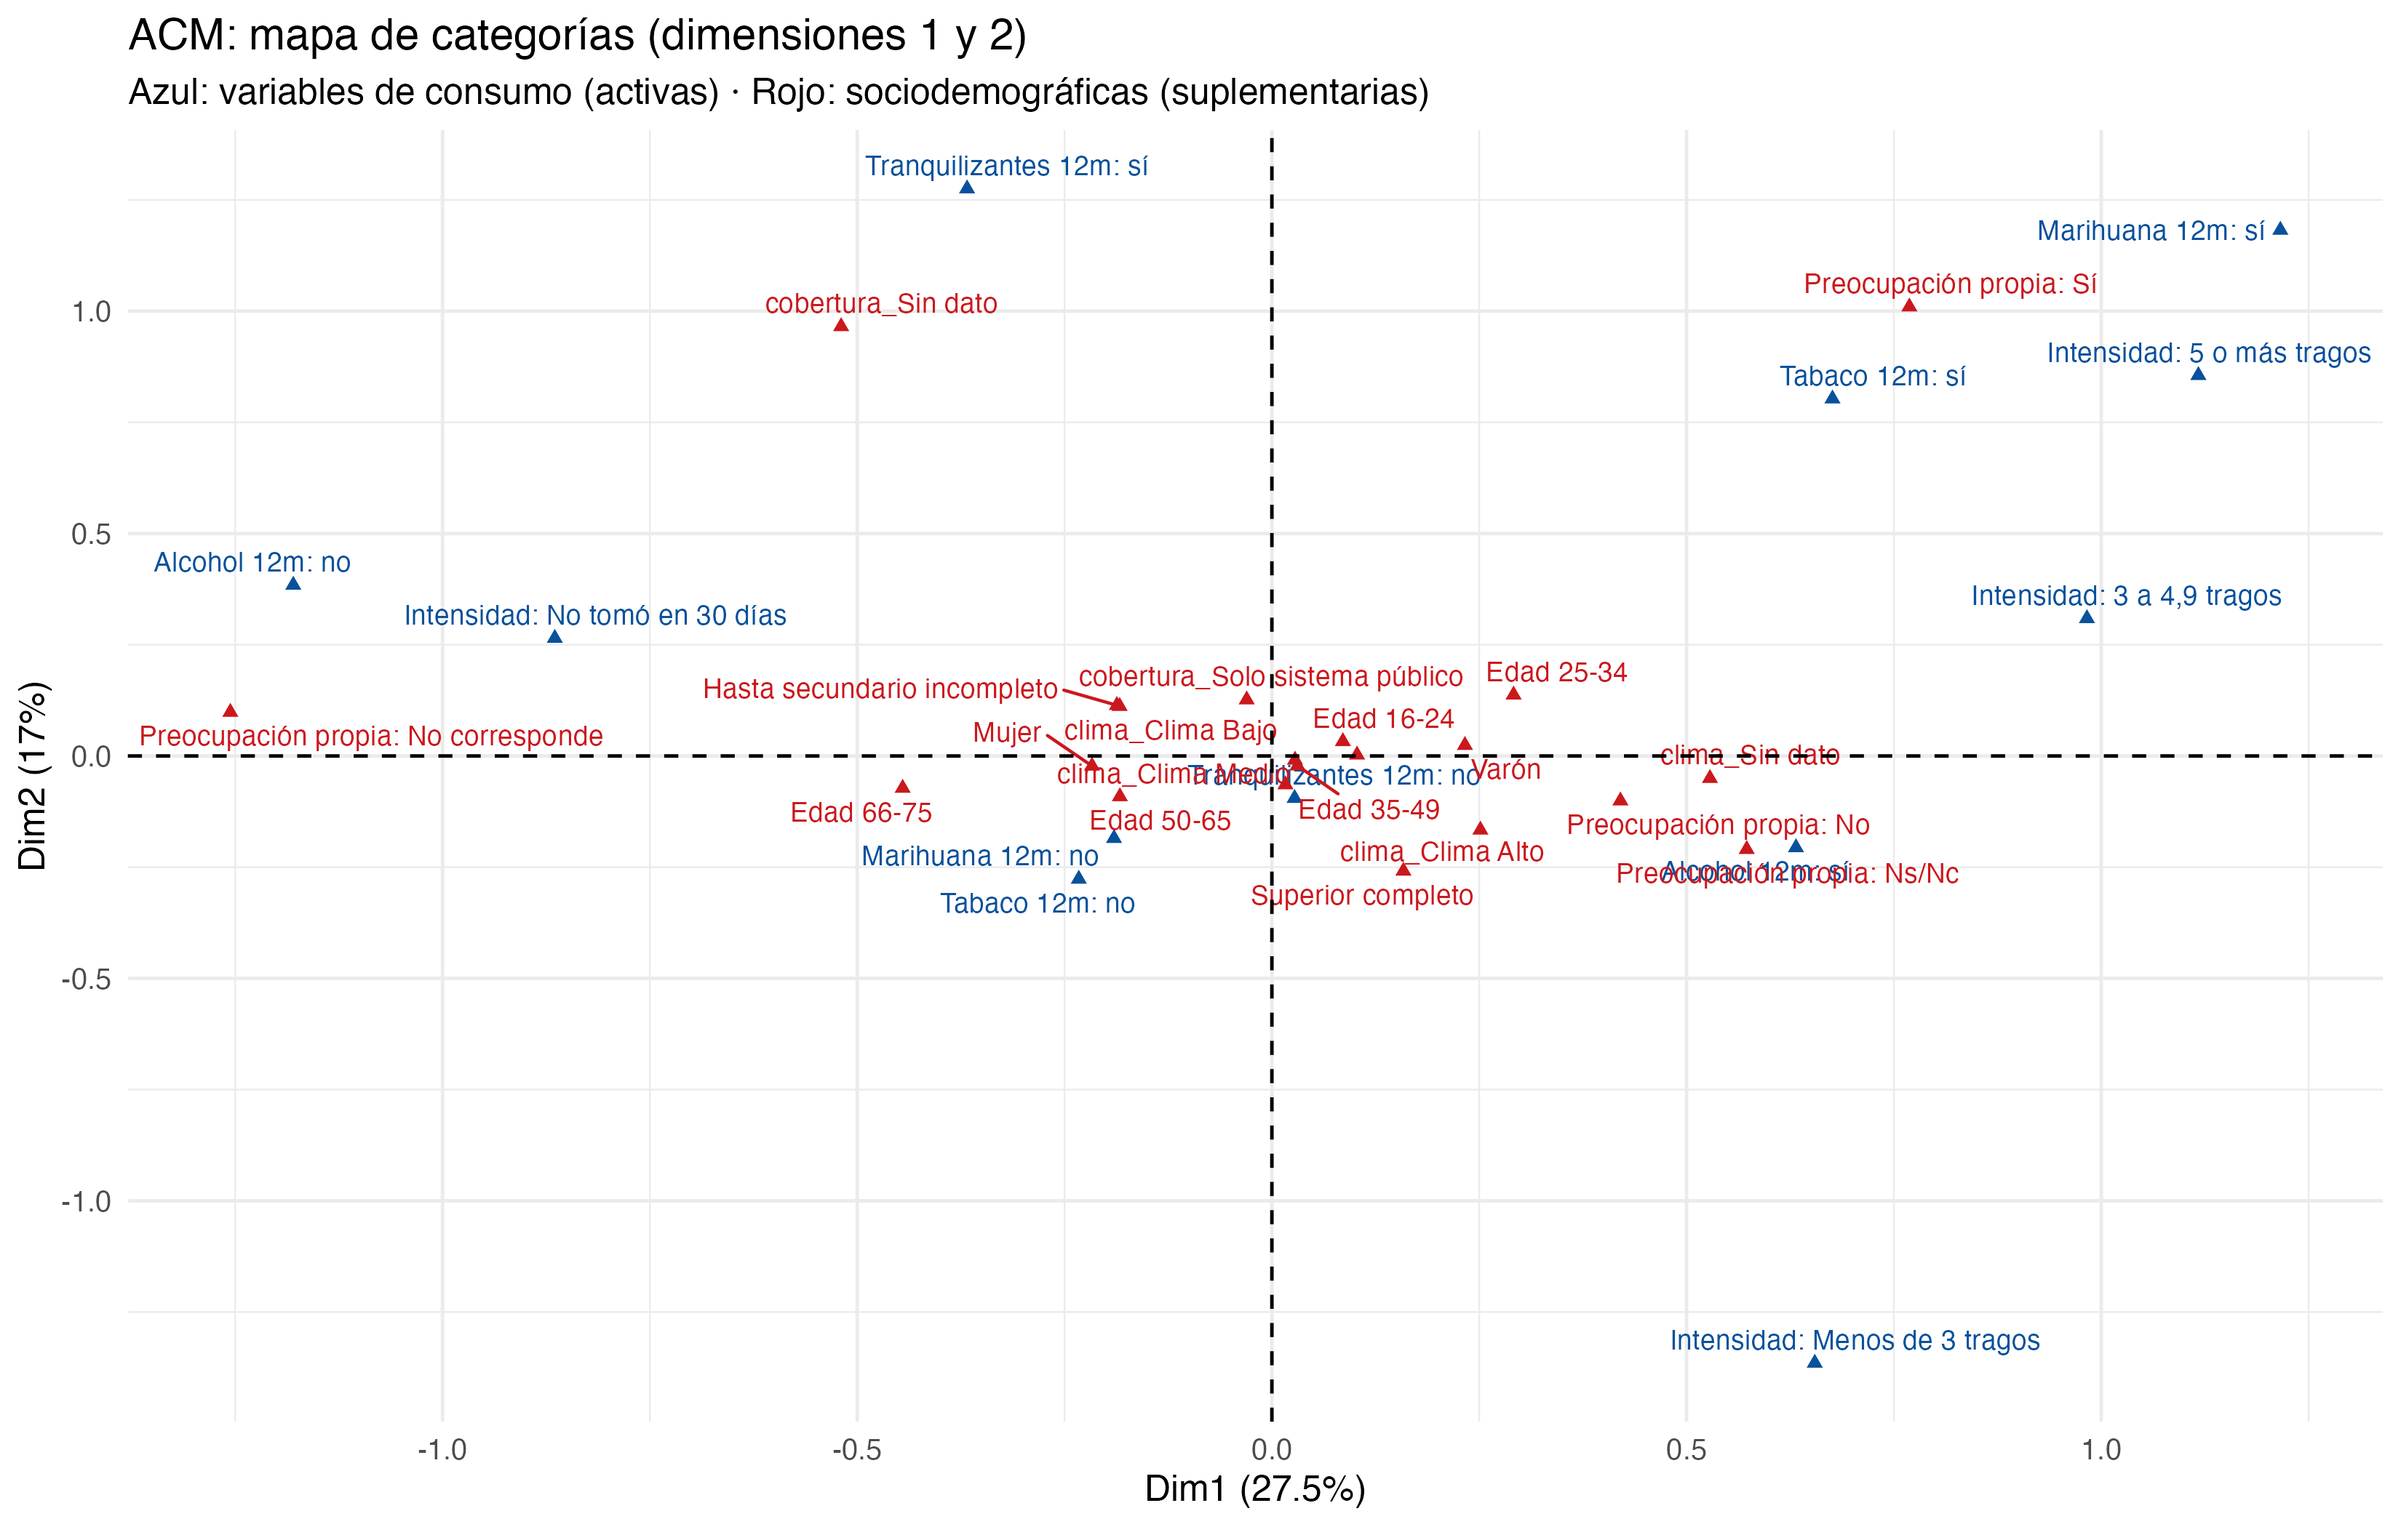
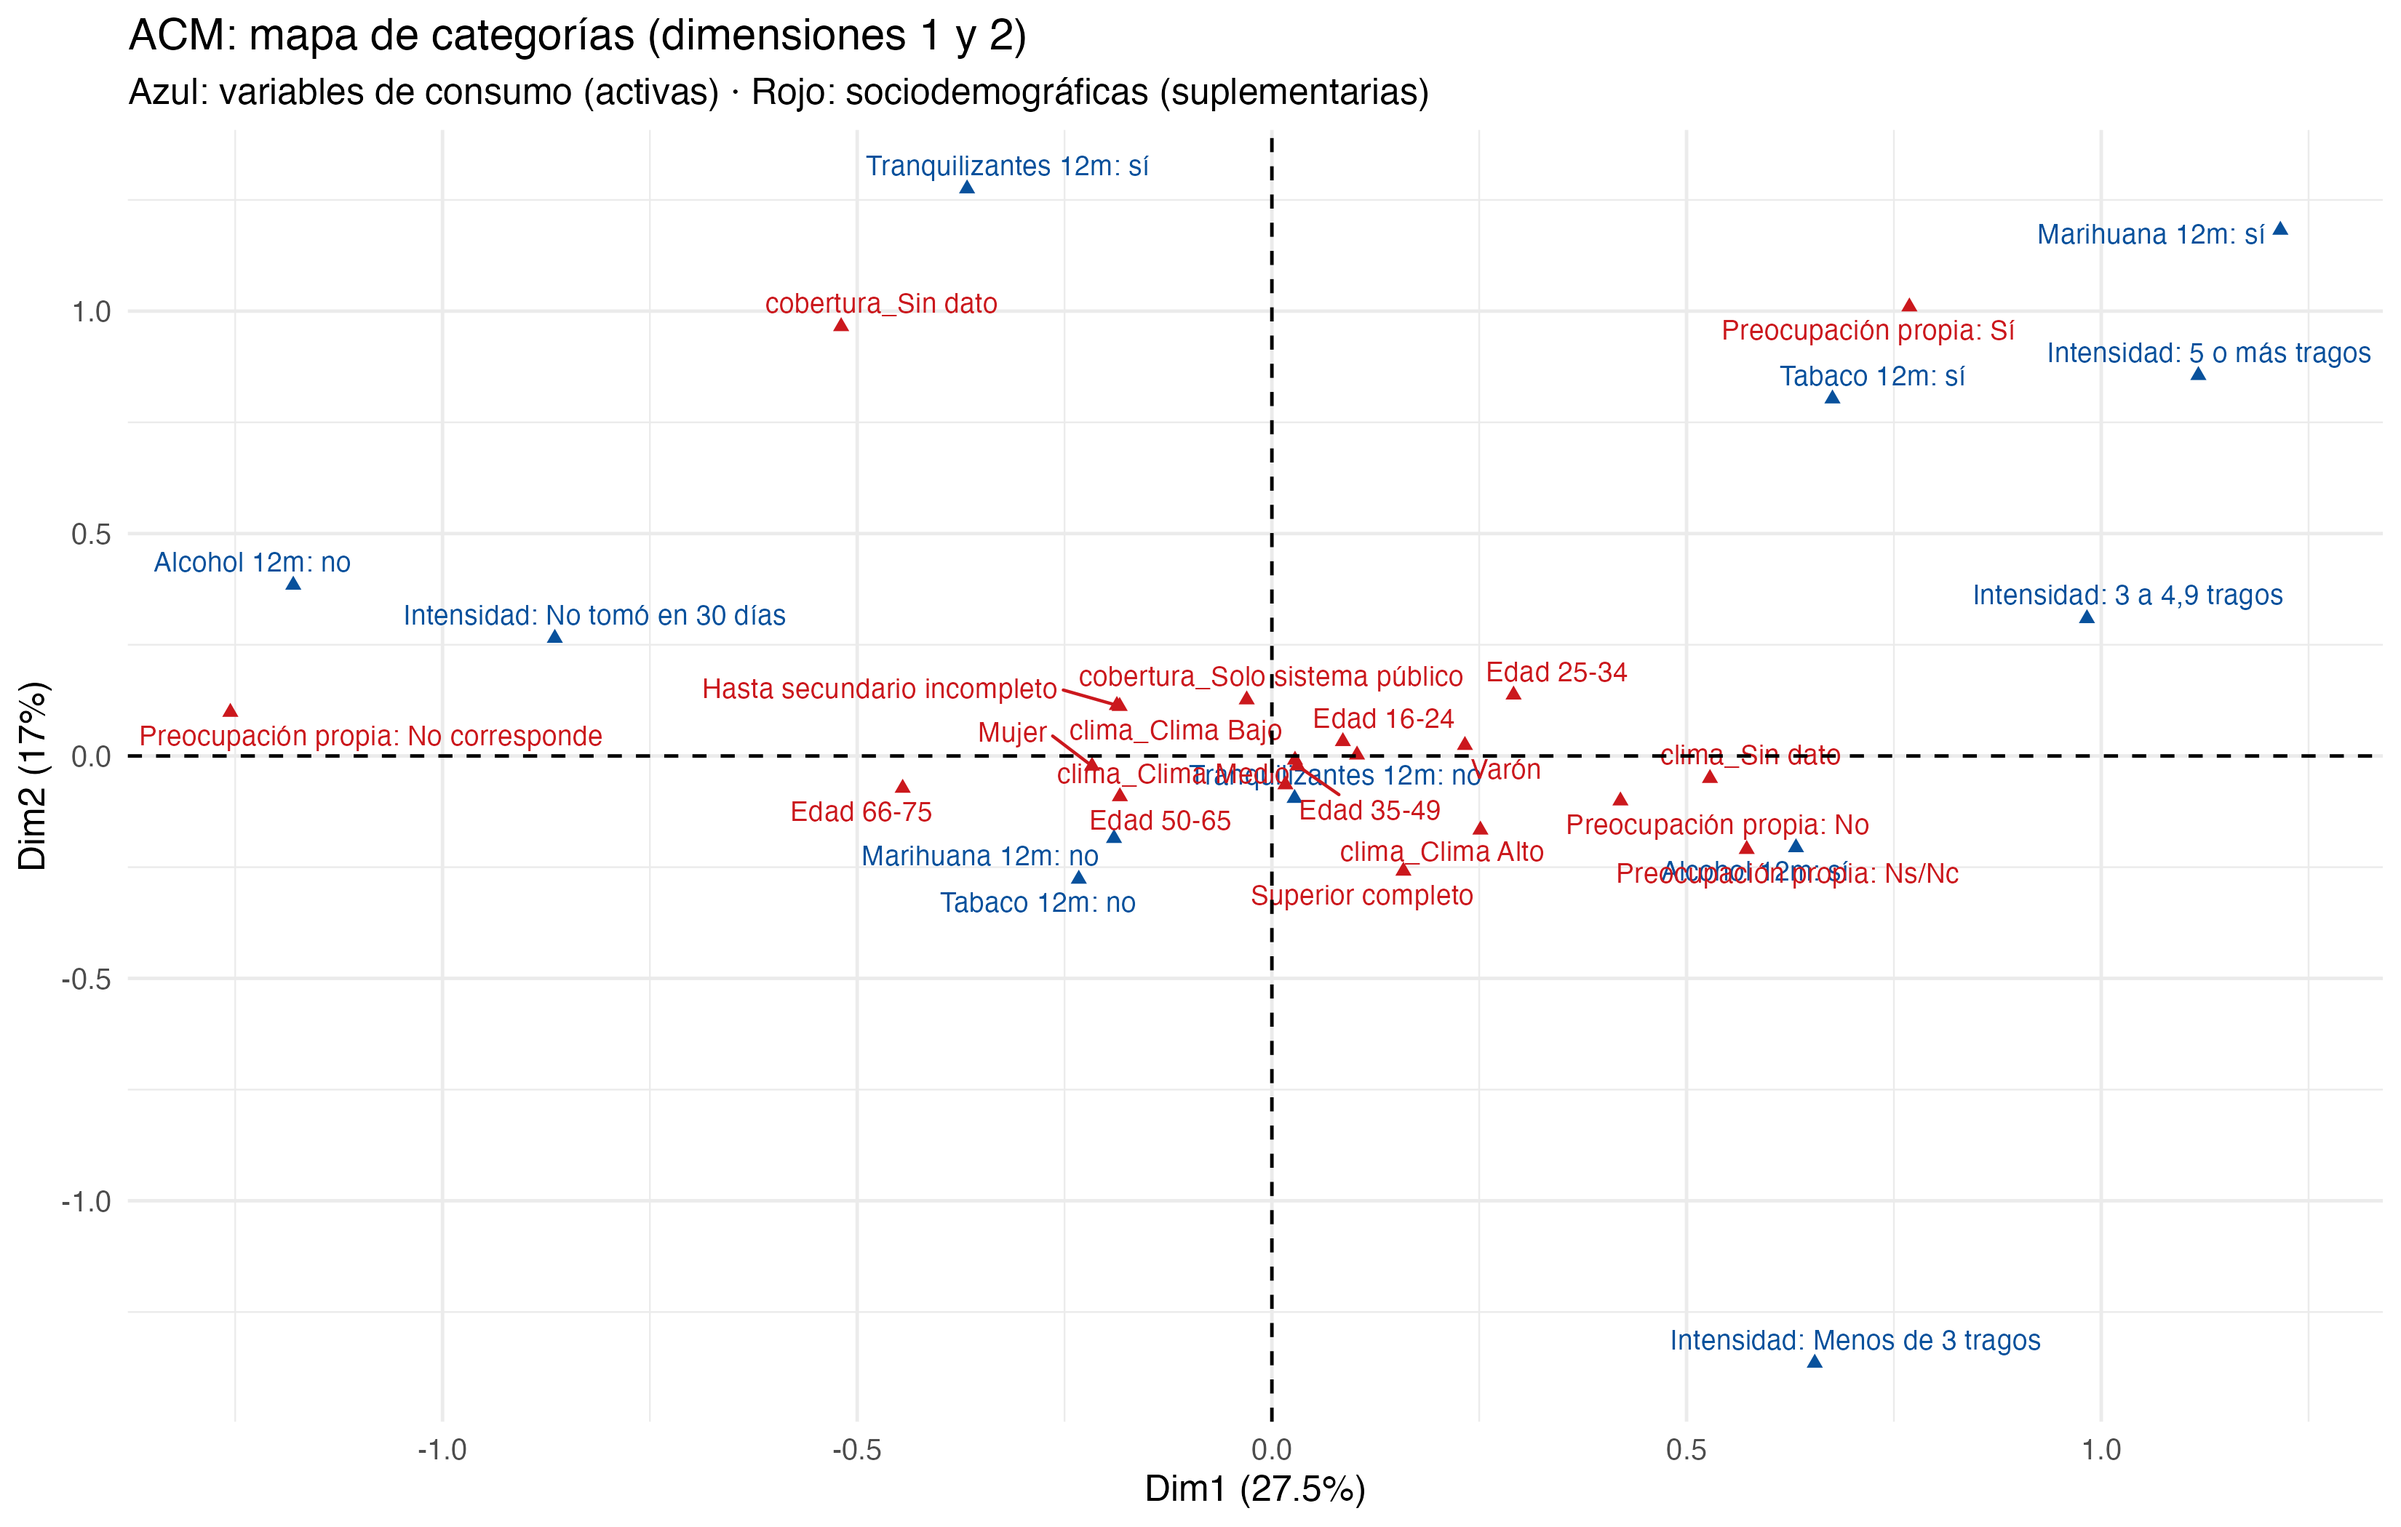
Corrige códigos 777/888, agrega Rao-Scott por estrato y completa outputs
- 01_limpieza, README y diccionario: 777 = "no consume de forma excesiva" y 888 = "no se pueden calcular los tragos", según el diccionario del INDEC
- 04_chi_cuadrado: p-valor Rao-Scott ponderado por estrato en t06
- 08_graficos: pie del comunicativo basado en el OR común de CMH
- README: resuelto el CONFIRMAR de la robustez de los clusters
- Diccionario: completa CP_10 y la descripción de AL19_TRAGOS_TOTAL
- Outputs regenerados con 00_main.R: se agregan t20 a t25, g18 a g22 y session_info.txt

diff --git a/README.md b/README.md
@@ -80,15 +80,15 @@ Las funciones propias están en `utils/` (`guardar`, `coma`, `fmt_p`, `pct`, `le
 ## Decisiones metodológicas y limitaciones
 
 - **Diseño muestral.** La base pública solo trae el ponderador `WPER`: no incluye variables de estrato ni de unidad primaria de muestreo. Por eso los errores estándar se calculan como si la muestra fuera aleatoria simple con ponderadores (`svydesign(ids = ~1)`) y el efecto de diseño reportado (≈ 4,2) es una aproximación.
-- **Tests por estrato.** El chi² por grupo de edad y de nivel educativo, y el Cochran-Mantel-Haenszel, se calculan sobre la muestra; las prevalencias que se muestran al lado están ponderadas. Como son 8 tests, también se informan los p-valores corregidos con el método de Holm (tabla `t06`). Como chequeo, un modelo logístico ponderado con sexo, edad y nivel educativo a la vez (`t25`) da una razón de chances de las mujeres respecto de los varones del mismo orden que el CMH.
+- **Tests por estrato.** El chi² por grupo de edad y de nivel educativo, y el Cochran-Mantel-Haenszel, se calculan sobre la muestra; las prevalencias que se muestran al lado están ponderadas. Como son 8 tests, también se informan los p-valores corregidos con el método de Holm (tabla `t06`). La tabla `t06` trae además el chi² ponderado (Rao-Scott) de cada estrato: con el ponderador, la brecha deja de ser significativa en algunos estratos chicos (25-34 y 35-49 años y superior completo), porque cada estrato tiene menos casos. Por eso la conclusión de P1 se apoya en las medidas que usan todos los estratos a la vez (CMH y modelo logístico), no en cada test por separado. Como chequeo, un modelo logístico ponderado con sexo, edad y nivel educativo a la vez (`t25`) da una razón de chances de las mujeres respecto de los varones del mismo orden que el CMH.
 - **Valores extremos de los tragos.** El máximo es 135 tragos en un día, que probablemente sea un error al pasar de volumen a tragos y no se puede verificar. Por eso en el clustering se usan categorías (menos de 3, 3 a 4,9 y 5 o más) y en el Gini y el Theil se compara la versión original con la winsorizada. El percentil 99 se calcula sin ponderar porque es un control de calidad de cada registro.
 - **Clusters.** La cantidad de grupos la elige el criterio automático de HCPC (5 en esta base). El script `06` repite el análisis con 4 y 6 grupos, sin la variable de intensidad y con el alcohol unificado en una sola variable, porque "alcohol en 12 meses" e "intensidad" comparten información.
-- **Códigos especiales.** Los códigos 98/99, 998/999 y 777/888 se pasan a NA en `01_limpieza.R`.
+- **Códigos especiales.** Se pasan a NA en `01_limpieza.R` según el diccionario de registro del INDEC. En la edad de inicio (`AL_03`), 998 = no recuerda y 999 = no sabe/no contesta (681 casos). En los tragos (`AL19_TRAGOS_TOTAL`), 777 = "no consume de forma excesiva" (182 casos) y 888 = "no se pueden calcular los tragos" (45 casos). El 777 no es no respuesta: son personas que tomaron en el último mes sin consumo excesivo. Como no tienen una cantidad de tragos, quedan fuera del Gini, del Theil y del clustering; la tabla `t19` muestra que excluir los 227 casos casi no cambia el perfil de la muestra, aunque probablemente subrepresente un poco a quienes toman poco.
 
 ## Conclusiones principales
 
 - **P1 (tranquilizantes).** La brecha de género se sostiene al controlar por edad y por nivel educativo: las mujeres tienen alrededor del doble de chances de haber consumido tranquilizantes en los últimos 12 meses (OR común ≈ 2,0), con 8,8% contra 4,9% en el total. La diferencia relativa es estable, pero la absoluta crece con la edad (de 2,7 a 11,1 puntos porcentuales). El efecto es chico (V de Cramer = 0,09).
-- **P2 (perfiles).** A igual edad y sexo, un clima educativo más alto se asocia con más consumo de alcohol y menos de tabaco. El ACM y la clasificación de Ward separan cinco perfiles de consumo; uno de ellos reúne a quienes consumen tranquilizantes (66% mujeres, mayoría de 50 años o más), que es la brecha de P1 vista desde otro método. *CONFIRMAR con `t20` tras correr el script 06: si el grupo de tranquilizantes aparece con 4, 5 y 6 grupos y sin la variable de intensidad.*
+- **P2 (perfiles).** A igual edad y sexo, un clima educativo más alto se asocia con más consumo de alcohol y menos de tabaco. El ACM y la clasificación de Ward separan cinco perfiles de consumo; uno de ellos reúne a quienes consumen tranquilizantes (66% mujeres, mayoría de 50 años o más), que es la brecha de P1 vista desde otro método. Ese grupo aparece igual en las seis variantes del análisis de robustez (4, 5 y 6 grupos, sin la intensidad y con el alcohol unificado; tabla `t20`). Hay que leerlo con cuidado: el grupo coincide exactamente con quienes consumieron tranquilizantes, porque en el ACM esa categoría, poco frecuente, pesa mucho y separa a esas personas sola. Lo que cambia según la especificación es cómo se reparten los consumos de alcohol en los demás grupos (índice de Rand ajustado de 0,85 a 0,87 con 4 y 6 grupos, y de 0,20 a 0,56 al cambiar las variables).
 - **P3 (concentración).** Entre quienes tomaron alcohol en el último mes, el Gini de los tragos del día de mayor consumo es 0,50 (0,49 al winsorizar los valores extremos, por lo que la decisión sobre los outliers no cambia la conclusión). El 10% que más toma concentra el 39,8% de los tragos. Más del 90% de la desigualdad ocurre dentro de los grupos: el sexo explica el 1,9% del índice de Theil, el clima educativo el 1,2% y la edad el 8,1%.
 - **Lectura conjunta.** Las variables sociodemográficas ordenan el consumo (quién consume qué), pero explican poco de su intensidad: la mayor parte de la variación está dentro de cada grupo.
 - **Limitaciones.** Son asociaciones, no causas. Los clusters dependen de la cantidad de grupos y de las variables elegidas, y el consumo es autorreportado. La variable de tragos mide el día de mayor consumo en los últimos 30 días, no el consumo total.
